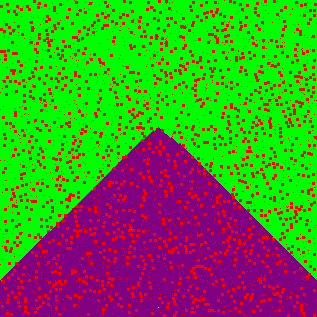
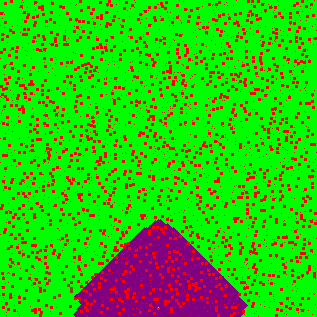
Fixed BFS and DFS path
BFS and DFS path should display on the world map correctly now. However, differentiating colors using red brick and blue brick is still needed.

diff --git a/main.py b/main.py
@@ -71,7 +71,10 @@ class Game:
                 obstacle_position = (x, -4, z) # Position of the obstacles that are visible to us at the moment
                 if position in self.game_screen.block_positions and position not in self.visible_blocks:
                     # Use the appropriate texture based on whether it's an obstacle
-                    if self.game_screen.block_positions[position]: 
+                    if self.path is not None and (x, z) in self.path:
+                        block_type = "snow"
+                        self.visible_blocks[position] = Block(position=position, block_type=block_type)
+                    elif self.game_screen.block_positions[position]: 
                         block_type = "grass" # Default block type
                         self.visible_blocks[position] = Block(position=position, block_type=block_type)
                         #self.visible_blocks[obstacle_position] = Zombie(position=obstacle_position, scale = 0.1)
@@ -209,7 +212,6 @@ def input(key):
     map = game.get_map()
     mPressed = game.get_mPressed()
     global text_entity
-    path = game.path
 
     if key == 'q':
         application.quit()
@@ -239,16 +241,14 @@ def input(key):
             )
     elif key == 'b' and mPressed:
         print("BFS Algorithm")
-        path = game.game_screen.BFS()  # Compute the path
-        if path:
-            update_blocks_on_path(game, path, "redstone")  # Place redstone blocks
+        game.path = game.game_screen.BFS()  # Compute the path
+        update_blocks_on_path(game, game.path, "snow")  # Place redstone blocks
         game.map.texture = "minimapAlgorithmPathBFS.png"  # Update the minimap texture
 
     elif key == 'd' and mPressed:
         print("DFS Algorithm")
-        path = game.game_screen.DFS()  # Compute the path
-        if path:
-            update_blocks_on_path(game, path, "bluestone")  # Place bluestone blocks
+        game.path = game.game_screen.DFS()  # Compute the path
+        update_blocks_on_path(game, game.path, "snow")  # Place bluestone blocks
         game.map.texture = "minimapAlgorithmPathDFS.png"  # Update the minimap texture
 
     elif key == 'r':

diff --git a/worldSettings.py b/worldSettings.py
@@ -3,7 +3,7 @@
 # World settings
 class worldSettings:
     def __init__(self):
-        self.world_size = 317                                                       # This creates a world with world_size x world_size amount of blocks (min must be 317)
+        self.world_size = 317                                                      # This creates a world with world_size x world_size amount of blocks (min must be 317)
         self.render_distance = 8                                                    # reduce this value if you have a slow computer
         self.total_tiles = self.world_size * self.world_size                        # Compute total number of tiles
         self.total_obstacles = int(0.15 * self.total_tiles)                         # Compute total number of obstacles (10% of total tiles)

diff --git a/textures.py b/textures.py
@@ -15,8 +15,7 @@ block_textures = {
     "darkstone" : load_texture("minecraft_starter/assets/textures/stone02.png"),
     "mud" : load_texture("minecraft_starter/assets/textures/groundMud.png"),
     "trimmedGrass" : load_texture("minecraft_starter/assets/textures/stone06.png"),
-    "redstone" : load_texture("minecraft_starter/assets/textures/snow.png"), #Bfs
-    "bluestone" : load_texture("minecraft_starter/assets/textures/snow.png"), #Dfs
+    "snow" : load_texture("minecraft_starter/assets/textures/snow.png"), #BFS and DFS
     # Add other block textures if needed
 }
 
